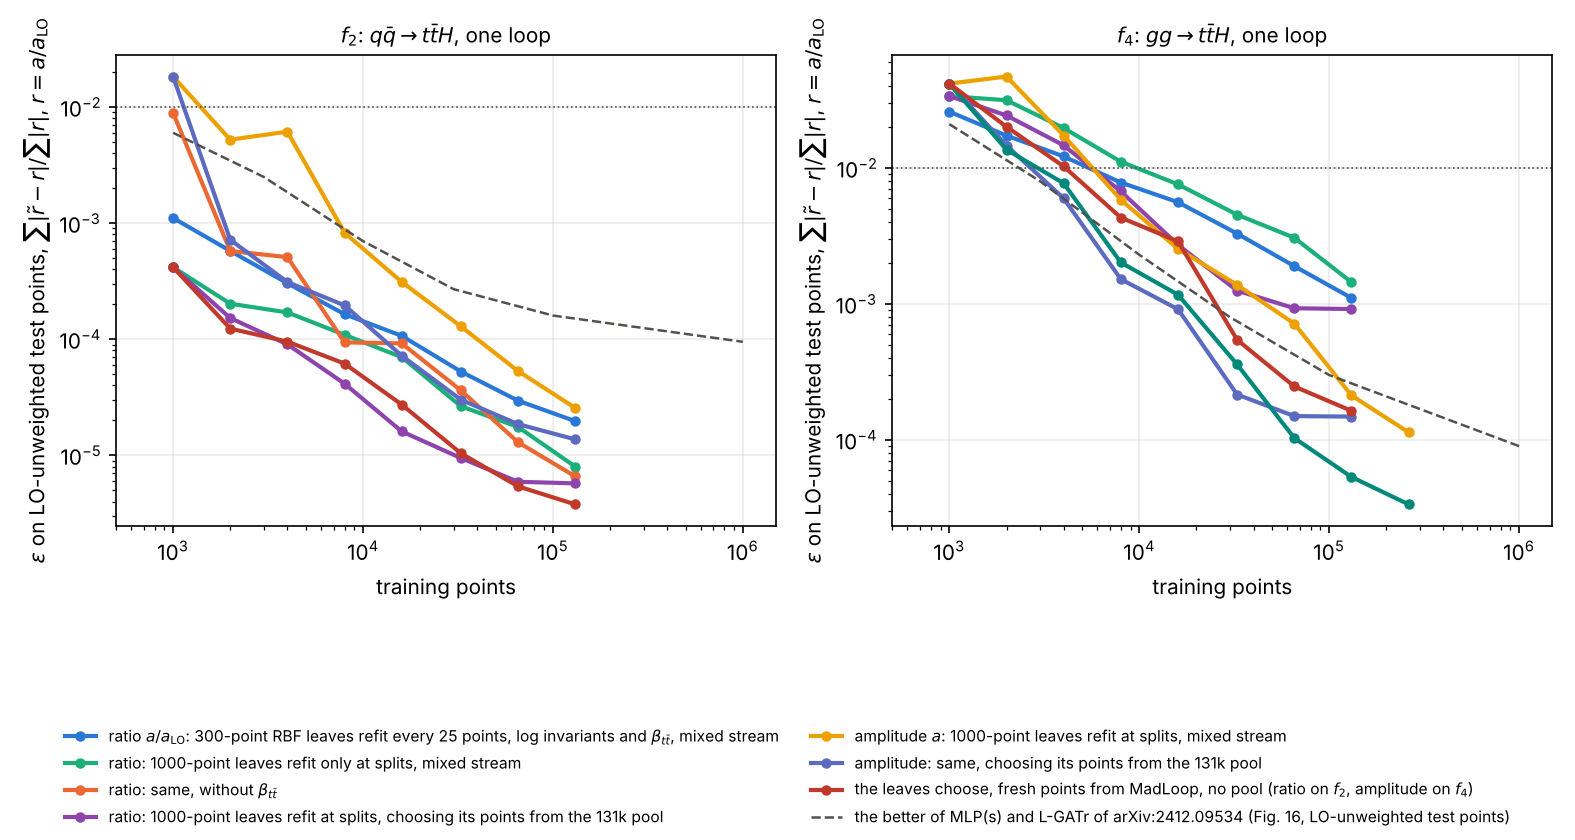
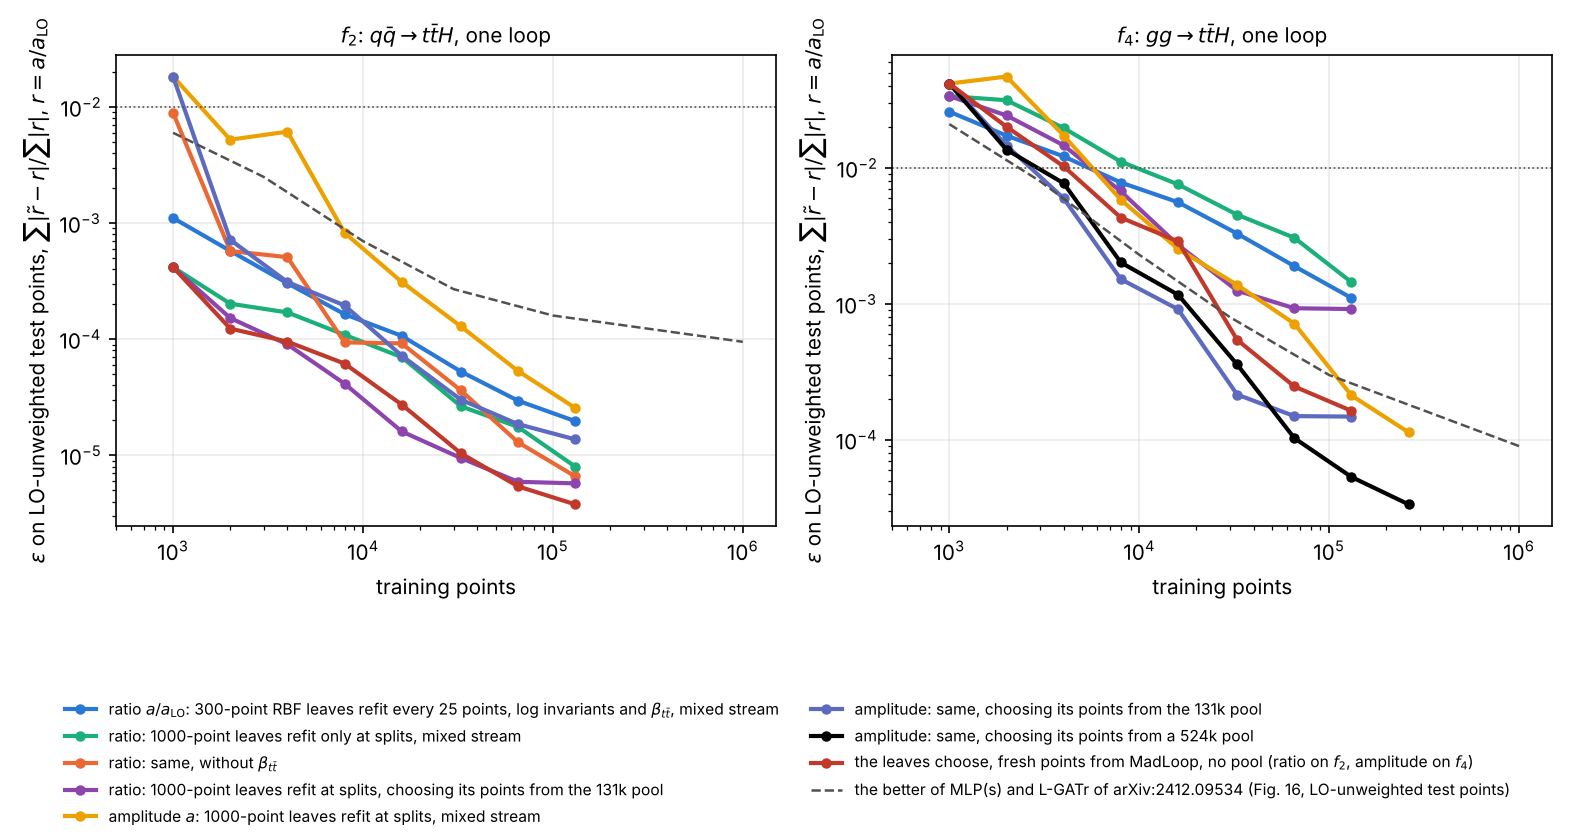
One-loop figure: legend from both panels, a distinct colour for the 524k pool
Claude-Session: https://claude.ai/code/session_0153hpVKJ5JPDq5CRhfaL7QL

diff --git a/examples/plot_tth_results.py b/examples/plot_tth_results.py
@@ -39,7 +39,7 @@ METRIC = {"eps_vs_points_paper_weights.png": ("eps_unweighted", r"mean relative 
 XLIM = {"eps_vs_points_targets.png": (500, 1.5e6), "eps_vs_points_loop.png": (500, 1.5e6)}
 LEGEND_LOC = {"eps_vs_points_targets.png": "below", "eps_vs_points_loop.png": "below"}
 DEFAULT_METRIC = ("eps_uniform", r"$\epsilon = \sum|\tilde f - f| \,/\, \sum f$ (uniform test points)")
-COLORS = ["#2a78d6", "#1baf7a", "#eb6834", "#8e44ad", "#eda100", "#5c6bc0", "#00897b", "#c0392b", "#7f8c8d"]
+COLORS = ["#2a78d6", "#1baf7a", "#eb6834", "#8e44ad", "#eda100", "#5c6bc0", "#000000", "#c0392b", "#7f8c8d"]
 
 # (file tag, key suffix, label) per series; {ch} is the channel, "a|b" tries a then b
 FIGURES = {
@@ -118,8 +118,13 @@ for name, series in FIGURES.items():
         ax.set_xlabel("training points"); ax.set_ylabel(ylabel)
         ax.set_title((NAMES_LOOP if loop else NAMES)[ch], fontsize=10); ax.grid(alpha=0.25)
     ax_leg = axes[0 if plotted[0] >= plotted[1] else 1]
-    if below:   # the legend under both panels, two columns
-        handles, labels = ax_leg.get_legend_handles_labels()
+    if below:   # the legend under both panels, two columns: every series of either panel, in the series' order
+        seen = {}
+        for ax in axes:
+            for h, l in zip(*ax.get_legend_handles_labels()):
+                seen.setdefault(l, h)
+        labels = [l for _, _, l in series if l in seen] + [l for l in seen if l not in {lab for _, _, lab in series}]
+        handles = [seen[l] for l in labels]
         fig.legend(handles, labels, frameon=False, fontsize=7.5, loc="lower center", ncol=2)
         fig.tight_layout(rect=(0, 0.26, 1, 1))
     else:
